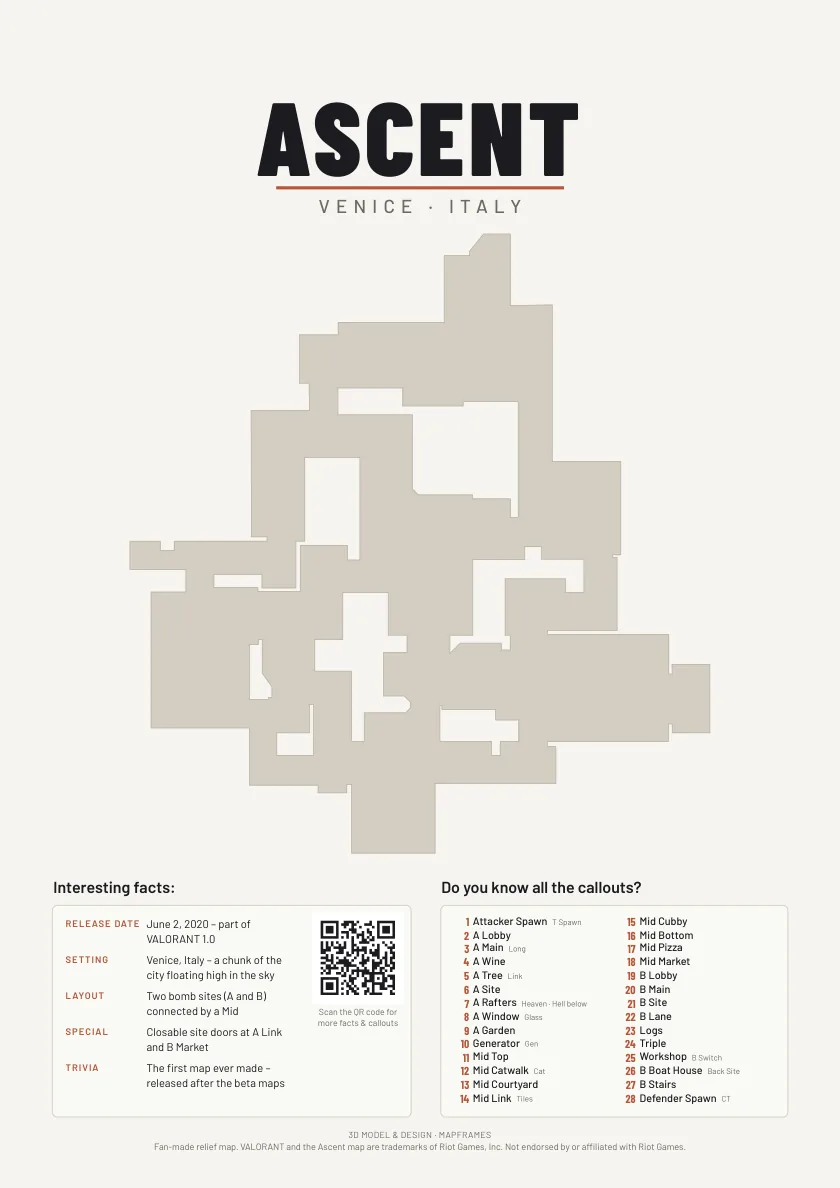
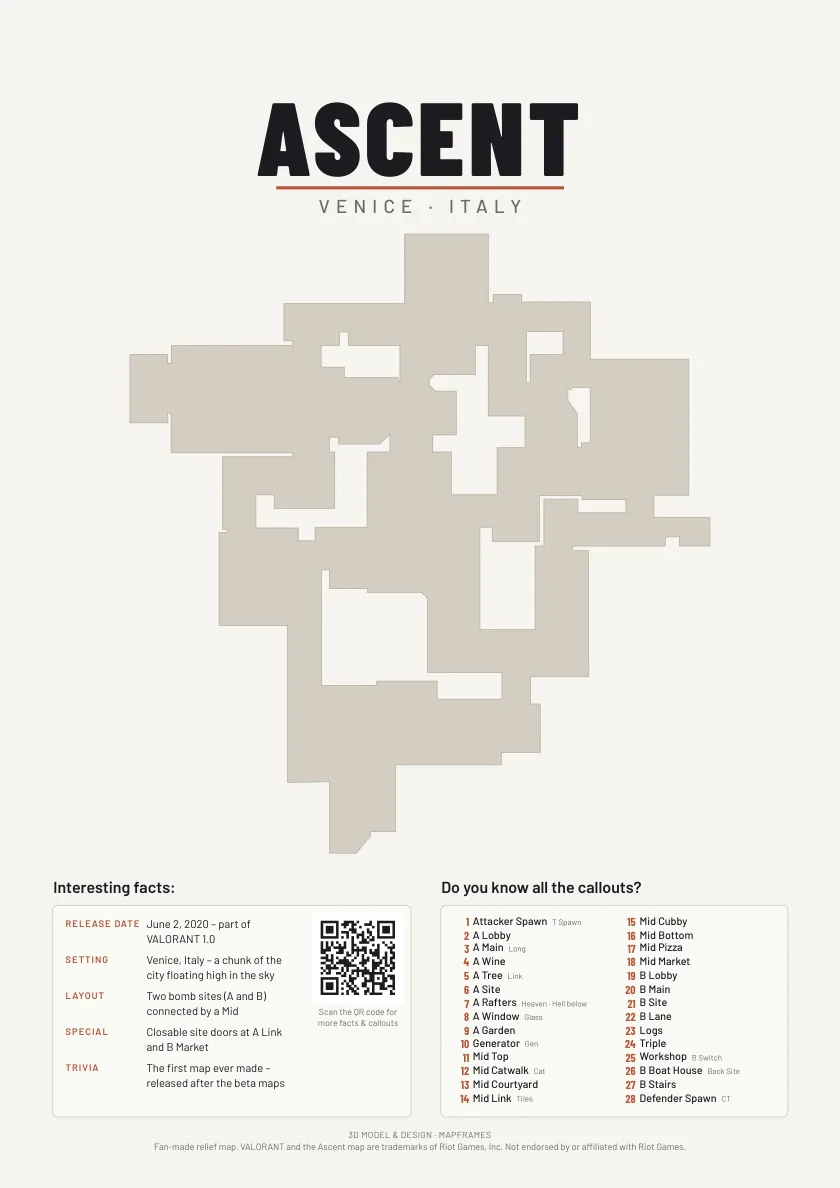
Abyss and Ascent: rotate 180° so attackers are at the bottom (relief, poster, callouts, labels)
Claude-Session: https://claude.ai/code/session_01FzT4sPnAGurHRYYzMdNgB6

Changed region(s): [[0.1548, 0.1869, 0.8667, 0.7163]]

diff --git a/ascent/index.html b/ascent/index.html
@@ -20,7 +20,7 @@
 <section class="board wrap" id="board" aria-label="Callouts">
   <figure class="sheet">
     <div class="map" id="map" style="--ar:1480/1580;--r:0.9367"><svg class="grid" aria-hidden="true" viewBox="-120.0 -120.0 388.0 398.0" preserveAspectRatio="none" style="left:-81.081%;top:-75.949%;width:262.162%;height:251.899%"><defs><pattern id="g5" width="5" height="5" patternUnits="userSpaceOnUse" x="4.00" y="9.00"><path d="M5 0H0V5" class="g-minor"/></pattern><pattern id="g10" width="10" height="10" patternUnits="userSpaceOnUse" x="4.00" y="9.00"><rect width="10" height="10" fill="url(#g5)"/><path d="M10 0H0V10" class="g-major"/></pattern></defs><rect x="-120.0" y="-120.0" width="388.0" height="398.0" fill="url(#g10)"/></svg><img src="../assets/ascent-relief.webp" width="1480" height="1580" alt="Top view of the Ascent relief"><div class="tip" id="tip" aria-hidden="true"></div></div>
-    <span class="side top" aria-hidden="true">Attacker side</span><span class="side bot" aria-hidden="true">Defender side</span><figcaption class="key"><span><i></i>Numbered as on your poster</span><span><i class="x"></i>Extra callout, not on the poster</span><span class="scale"><b id="bar" data-mm="11.64" data-wmm="148.0"></b>10 m in the game</span><span class="orient">Attackers start at the top, A site on the left, B site on the right. One grid square is 1 cm on your relief.</span></figcaption>
+    <span class="side top" aria-hidden="true">Defender side</span><span class="side bot" aria-hidden="true">Attacker side</span><figcaption class="key"><span><i></i>Numbered as on your poster</span><span><i class="x"></i>Extra callout, not on the poster</span><span class="scale"><b id="bar" data-mm="11.64" data-wmm="148.0"></b>10 m in the game</span><span class="orient">Attackers start at the bottom, A site on the right, B site on the left. One grid square is 1 cm on your relief.</span></figcaption>
   </figure>
   <div class="panel">
     <div class="modes" role="tablist" aria-label="Mode"><button role="tab" data-mode="explore" aria-selected="true">Explore</button><button role="tab" data-mode="quiz" aria-selected="false">Test yourself</button></div>
@@ -48,7 +48,7 @@
 <section class="more wrap"><h2>All VALORANT maps</h2><div class="tiles"><a class="tile" href="../abyss/"><span class="im"><img src="../assets/abyss-thumb.webp" alt="" loading="lazy"></span><b>Abyss</b><span>Jan Mayen, Norway</span><span>23 callouts</span></a><a class="tile" href="./" aria-current="page"><span class="im"><img src="../assets/ascent-thumb.webp" alt="" loading="lazy"></span><b>Ascent</b><span>Venice, Italy</span><span>68 callouts</span></a><a class="tile" href="../bind/"><span class="im"><img src="../assets/bind-thumb.webp" alt="" loading="lazy"></span><b>Bind</b><span>Rabat, Morocco</span><span>28 callouts</span></a><a class="tile" href="../breeze/"><span class="im"><img src="../assets/breeze-thumb.webp" alt="" loading="lazy"></span><b>Breeze</b><span>Bermuda Triangle, Atlantic</span><span>23 callouts</span></a><a class="tile" href="../fracture/"><span class="im"><img src="../assets/fracture-thumb.webp" alt="" loading="lazy"></span><b>Fracture</b><span>New Mexico, USA</span><span>22 callouts</span></a><a class="tile" href="../haven/"><span class="im"><img src="../assets/haven-thumb.webp" alt="" loading="lazy"></span><b>Haven</b><span>Thimphu, Bhutan</span><span>29 callouts</span></a><a class="tile" href="../icebox/"><span class="im"><img src="../assets/icebox-thumb.webp" alt="" loading="lazy"></span><b>Icebox</b><span>Bennett Island, Russia</span><span>25 callouts</span></a><a class="tile" href="../lotus/"><span class="im"><img src="../assets/lotus-thumb.webp" alt="" loading="lazy"></span><b>Lotus</b><span>Western Ghats, India</span><span>28 callouts</span></a><a class="tile" href="../pearl/"><span class="im"><img src="../assets/pearl-thumb.webp" alt="" loading="lazy"></span><b>Pearl</b><span>Lisbon, Portugal</span><span>26 callouts</span></a><a class="tile" href="../split/"><span class="im"><img src="../assets/split-thumb.webp" alt="" loading="lazy"></span><b>Split</b><span>Tokyo, Japan</span><span>24 callouts</span></a><a class="tile" href="../sunset/"><span class="im"><img src="../assets/sunset-thumb.webp" alt="" loading="lazy"></span><b>Sunset</b><span>Los Angeles, USA</span><span>17 callouts</span></a></div></section>
 </main>
 <footer><div class="wrap"><span>Mapframes, 3D-printed relief maps. <a href="../frame/">What is in the frame</a></span><span>Fan-made project. VALORANT and all related names are trademarks of Riot Games, Inc. Not endorsed by or affiliated with Riot Games.</span></div></footer>
-<script type="application/json" id="data">{"slug": "ascent", "name": "Ascent", "groups": {"A": "A side", "Mid": "Mid", "B": "B side", "Spawns": "Spawns & connectors"}, "callouts": [{"n": "A Lobby", "a": "", "d": "Attackers' entrance hall in front of A.", "note": "", "g": "A", "p": 2, "x": 25.14, "y": 39.3, "o": 1, "img": "a-lobby", "px": [0.5, 0.5658]}, {"n": "A Main", "a": "A Long", "d": "The main route onto A. \"Long\" comes from Counter-Strike.", "note": "", "g": "A", "p": 3, "x": 18.58, "y": 51.84, "o": 1, "img": "a-main", "px": [0.5, 0.5822]}, {"n": "A Wine", "a": "Wine", "d": "A little wine shop – barrels, bottles and tables are right there.", "note": "", "g": "A", "p": 4, "x": 2.57, "y": 51.65, "o": 1, "img": "a-wine", "px": [0.5, 0.58]}, {"n": "A Tree", "a": "Tree, Tree Room, A Link", "d": "A small room with a tree growing in the middle. Also called A Link.", "note": "", "g": "A", "p": 5, "x": 29.19, "y": 60.89, "o": 1, "img": "a-tree", "px": [0.5, 0.5822]}, {"n": "A Site", "a": "", "d": "Bomb site A.", "note": "", "g": "A", "p": 6, "x": 12.09, "y": 65.95, "o": 1, "img": "a-site", "px": [0.5, 0.5822]}, {"n": "A Window", "a": "Glass", "d": "The big breakable window next to A site.", "note": "", "g": "A", "p": 8, "x": 28.85, "y": 77.41, "o": 1, "img": "a-window", "px": [0.5, 0.5822]}, {"n": "A Garden", "a": "Gardens", "d": "A garden with flower pots and a pergola.", "note": "", "g": "A", "p": 9, "x": 30.81, "y": 72.72, "o": 1, "img": "a-garden", "px": [0.5, 0.5659]}, {"n": "A Rafters", "a": "Heaven", "d": "The raised spot above the site – \"Heaven\", a name borrowed from CS. Rafters are roof beams.", "note": "", "g": "A", "p": 7, "x": 12.23, "y": 77.59, "o": 1, "img": "a-rafters", "px": [0.5, 0.5822]}, {"n": "Hell", "a": "Under Heaven", "d": "The space right under Heaven – \"Hell\" below \"Heaven\", also from CS.", "note": "Hidden under Heaven on the relief – look below the upper floor.", "g": "A", "p": 0, "x": 12.23, "y": 77.59, "o": 0, "img": "hell", "px": [0.5, 0.5822]}, {"n": "Generator", "a": "Gen, Genny", "d": "The big generator standing on A site.", "note": "", "g": "A", "p": 10, "x": 17.16, "y": 69.37, "o": 0, "img": "generator", "px": [0.5, 0.5658]}, {"n": "A Default", "a": "Default", "d": "The standard spike plant spot next to Generator.", "note": "", "g": "A", "p": 0, "x": 15.2, "y": 67.72, "o": 0, "img": "a-default", "px": [0.5, 0.5822]}, {"n": "Green Box", "a": "Dice", "d": "The green box in the middle of the site, also called Dice.", "note": "", "g": "A", "p": 0, "x": 9.8, "y": 69.49, "o": 0, "img": "green-box", "px": [0.5, 0.5658]}, {"n": "Bricks", "a": "Shroud", "d": "A pile of bricks on the left of A site. \"Shroud\" refers to the Shroud box in CS.", "note": "", "g": "A", "p": 0, "x": 6.15, "y": 59.11, "o": 0, "img": "bricks", "px": [0.5, 0.5657]}, {"n": "Site Pillar", "a": "A Site Pillar, Pillar", "d": "The stone pillar on the edge of A site.", "note": "", "g": "A", "p": 0, "x": 5.2, "y": 66.71, "o": 0, "img": "site-pillar", "px": [0.5, 0.5822]}, {"n": "Tall Box", "a": "", "d": "A tall wooden crate on the edge of the site.", "note": "", "g": "A", "p": 0, "x": 6.76, "y": 74.68, "o": 0, "img": "tall-box", "px": [0.5, 0.5658]}, {"n": "Heaven Pillar", "a": "Tower", "d": "The pillar (tower) next to Heaven.", "note": "", "g": "A", "p": 0, "x": 5.2, "y": 76.39, "o": 0, "img": "heaven-pillar", "px": [0.5, 0.6093]}, {"n": "Heaven Hall", "a": "", "d": "The corridor behind Heaven leading to the defenders.", "note": "", "g": "A", "p": 0, "x": 22.77, "y": 81.96, "o": 0, "img": "heaven-hall", "px": [0.5, 0.5822]}, {"n": "Heaven Ramp", "a": "Heaven Stairs", "d": "The ramp / stairs up to Heaven.", "note": "", "g": "A", "p": 0, "x": 29.26, "y": 87.34, "o": 0, "img": "heaven-ramp", "px": [0.5, 0.5618]}, {"n": "Lights", "a": "", "d": "The area with street lamps next to Garden.", "note": "", "g": "A", "p": 0, "x": 35.88, "y": 79.87, "o": 0, "img": "lights", "px": [0.5, 0.5659]}, {"n": "A Door", "a": "", "d": "The closable door on A – one of Ascent's signature mechanics.", "note": "", "g": "A", "p": 0, "x": 22.3, "y": 61.39, "o": 0, "img": "a-door", "px": [0.5, 0.5658]}, {"n": "A Switch", "a": "Switch, Button", "d": "The button that opens and closes the A door.", "note": "", "g": "A", "p": 0, "x": 21.62, "y": 58.86, "o": 0, "img": "a-switch", "px": [0.5, 0.5658]}, {"n": "A Short", "a": "Short", "d": "The shorter route from Mid over Catwalk to A Link.", "note": "", "g": "A", "p": 0, "x": 38.45, "y": 55.7, "o": 0, "img": "a-short", "px": [0.5, 0.5658]}, {"n": "A Cubby", "a": "", "d": "A small nook next to A Main.", "note": "", "g": "A", "p": 0, "x": 25.07, "y": 55.7, "o": 0, "img": "a-cubby", "px": [0.5, 0.5658]}, {"n": "A Orb", "a": "", "d": "Where the ultimate orb spawns on the A side.", "note": "", "g": "A", "p": 0, "x": 25.07, "y": 50.51, "o": 0, "img": "a-orb", "px": [0.5, 0.5822]}, {"n": "Deli", "a": "Scooter", "d": "A delicatessen – hams and cheeses hang in the window.", "note": "", "g": "A", "p": 0, "x": 22.77, "y": 41.77, "o": 0, "img": "deli", "px": [0.5, 0.5658]}, {"n": "Gelato", "a": "", "d": "An ice cream shop with a \"Gelato\" sign.", "note": "", "g": "A", "p": 0, "x": 24.32, "y": 29.11, "o": 0, "img": "gelato", "px": [0.5, 0.5658]}, {"n": "A Alley", "a": "", "d": "The narrow attacker alley leading toward A.", "note": "", "g": "A", "p": 0, "x": 33.31, "y": 25.63, "o": 0, "img": "a-alley", "px": [0.5, 0.5658]}, {"n": "Bar", "a": "", "d": "A bar with tables, chairs and wine barrels.", "note": "", "g": "A", "p": 0, "x": 41.55, "y": 23.92, "o": 0, "img": "bar", "px": [0.5, 0.5658]}, {"n": "Mid Top", "a": "Top Mid", "d": "The upper part of Mid, on the attacker side.", "note": "", "g": "Mid", "p": 11, "x": 38.78, "y": 32.78, "o": 1, "img": "mid-top", "px": [0.5, 0.5658]}, {"n": "Mid Catwalk", "a": "Catwalk, Cat", "d": "The narrow raised walkway – \"Cat\" for short.", "note": "", "g": "Mid", "p": 12, "x": 42.23, "y": 47.53, "o": 1, "img": "mid-catwalk", "px": [0.5, 0.5658]}, {"n": "Mid Courtyard", "a": "Mid", "d": "The big open courtyard in the centre of the map.", "note": "", "g": "Mid", "p": 13, "x": 50.88, "y": 50.89, "o": 1, "img": "mid-courtyard", "px": [0.5, 0.5657]}, {"n": "Fountain", "a": "", "d": "The fountain in the middle of the courtyard.", "note": "", "g": "Mid", "p": 0, "x": 52.03, "y": 47.47, "o": 0, "img": "fountain", "px": [0.5, 0.5656]}, {"n": "Mid Cubby", "a": "Cubby, Dog", "d": "A small nook on the way to A, also called Dog.", "note": "", "g": "Mid", "p": 15, "x": 33.85, "y": 54.87, "o": 1, "img": "mid-cubby", "px": [0.5, 0.5822]}, {"n": "Mid Link", "a": "Tiles, Mid Connector", "d": "Named \"Tiles\" after the patterned floor tiles.", "note": "", "g": "Mid", "p": 14, "x": 65.47, "y": 48.61, "o": 1, "img": "mid-link", "px": [0.5, 0.5658]}, {"n": "Mid Bottom", "a": "Bottom Mid", "d": "The lower part of Mid, on the defender side.", "note": "", "g": "Mid", "p": 16, "x": 51.69, "y": 60.95, "o": 1, "img": "mid-bottom", "px": [0.5, 0.5821]}, {"n": "Bench", "a": "", "d": "The bench in Mid Bottom.", "note": "", "g": "Mid", "p": 0, "x": 57.3, "y": 59.18, "o": 0, "img": "bench", "px": [0.5, 0.5658]}, {"n": "Arch", "a": "Mid Arch", "d": "The arched gateway by Mid Bottom.", "note": "", "g": "Mid", "p": 0, "x": 53.38, "y": 63.92, "o": 0, "img": "arch", "px": [0.5, 0.5659]}, {"n": "Mid Pizza", "a": "Pizza", "d": "A pizzeria – pizza boxes and slices lie around.", "note": "", "g": "Mid", "p": 17, "x": 46.28, "y": 70.63, "o": 1, "img": "mid-pizza", "px": [0.5, 0.5658]}, {"n": "Mid Market", "a": "Market, B Market", "d": "A market with stalls and crates of fruit.", "note": "", "g": "Mid", "p": 18, "x": 51.89, "y": 71.33, "o": 1, "img": "mid-market", "px": [0.5, 0.6096]}, {"n": "Library", "a": "", "d": "A bookshop full of books.", "note": "", "g": "Mid", "p": 0, "x": 46.22, "y": 40.13, "o": 0, "img": "library", "px": [0.5, 0.5756]}, {"n": "Screens", "a": "", "d": "Screens on the museum wall near Top Mid.", "note": "Painted on a wall – not part of the relief.", "g": "Mid", "p": 0, "x": 39.19, "y": 45.57, "o": 0, "img": "screens", "px": [0.5, 0.6435]}, {"n": "Subroza", "a": "", "d": "A grass patch by the Catwalk stairs, named after the pro player Subroza.", "note": "", "g": "Mid", "p": 0, "x": 41.22, "y": 42.41, "o": 0, "img": "subroza", "px": [0.5, 0.5822]}, {"n": "Attacker Spawn", "a": "T Spawn", "d": "Where attackers start. \"T\" stands for Terrorists in CS.", "note": "", "g": "Spawns", "p": 1, "x": 60.0, "y": 16.71, "o": 1, "img": "attacker-spawn", "px": [0.5, 0.5655]}, {"n": "Church", "a": "", "d": "A small chapel with wooden pews.", "note": "", "g": "B", "p": 0, "x": 62.36, "y": 25.63, "o": 0, "img": "church", "px": [0.5, 0.5658]}, {"n": "B Alley", "a": "", "d": "The attacker alley leading toward B.", "note": "", "g": "B", "p": 0, "x": 70.41, "y": 25.44, "o": 0, "img": "b-alley", "px": [0.5, 0.5822]}, {"n": "Kraken", "a": "", "d": "An octopus graffiti on the wall.", "note": "Painted on a wall – not part of the relief.", "g": "B", "p": 0, "x": 78.24, "y": 35.44, "o": 0, "img": "kraken", "px": [0.5, 0.6085]}, {"n": "B Lobby", "a": "", "d": "Attackers' entrance hall in front of B.", "note": "", "g": "B", "p": 19, "x": 72.23, "y": 27.34, "o": 1, "img": "b-lobby", "px": [0.5, 0.6096]}, {"n": "Ticket Booth", "a": "", "d": "A booth with a ticket window next to B Lobby.", "note": "", "g": "B", "p": 0, "x": 82.43, "y": 44.49, "o": 0, "img": "ticket-booth", "px": [0.5, 0.5589]}, {"n": "Fish Market", "a": "", "d": "A fish market with crates of fish.", "note": "", "g": "B", "p": 0, "x": 75.95, "y": 52.34, "o": 0, "img": "fish-market", "px": [0.5, 0.594]}, {"n": "B Main", "a": "Tunnels", "d": "The main route onto B, also called Tunnels.", "note": "", "g": "B", "p": 20, "x": 76.08, "y": 60.13, "o": 1, "img": "b-main", "px": [0.5, 0.5658]}, {"n": "B Cubby", "a": "", "d": "A small nook in B Main.", "note": "", "g": "B", "p": 0, "x": 71.55, "y": 57.34, "o": 0, "img": "b-cubby", "px": [0.5, 0.5658]}, {"n": "B Orb", "a": "", "d": "Where the ultimate orb spawns on the B side.", "note": "", "g": "B", "p": 0, "x": 81.01, "y": 61.84, "o": 0, "img": "b-orb", "px": [0.5, 0.5658]}, {"n": "B Site", "a": "", "d": "Bomb site B.", "note": "", "g": "B", "p": 21, "x": 78.92, "y": 72.72, "o": 1, "img": "b-site", "px": [0.5, 0.5659]}, {"n": "B Lane", "a": "Lane, Speedway", "d": "The long straight raised walkway beside the site, also called Speedway.", "note": "", "g": "B", "p": 22, "x": 85.61, "y": 65.82, "o": 0, "img": "b-lane", "px": [0.5, 0.5823]}, {"n": "Triple", "a": "Triple Box, B Default", "d": "A stack of three crates – the default plant spot on B.", "note": "", "g": "B", "p": 24, "x": 86.62, "y": 73.16, "o": 0, "img": "triple", "px": [0.5, 0.5658]}, {"n": "Double", "a": "Double Box", "d": "A stack of two crates.", "note": "", "g": "B", "p": 0, "x": 83.85, "y": 80.44, "o": 0, "img": "double", "px": [0.5, 0.5658]}, {"n": "Wallbang", "a": "", "d": "The corner players like to shoot through the wall.", "note": "", "g": "B", "p": 0, "x": 79.66, "y": 71.39, "o": 0, "img": "wallbang", "px": [0.5, 0.5659]}, {"n": "Workshop", "a": "Toolshed, Shed, B Switch, Button", "d": "A tool shed with saws and drills – and the button for the B door.", "note": "", "g": "B", "p": 25, "x": 75.95, "y": 72.66, "o": 0, "img": "workshop", "px": [0.5, 0.5657]}, {"n": "B Boat House", "a": "Boathouse, Back Site, Back", "d": "A boathouse with boats, oars and a small pier.", "note": "", "g": "B", "p": 26, "x": 95.74, "y": 74.3, "o": 1, "img": "b-boat-house", "px": [0.5, 0.5658]}, {"n": "Boat", "a": "", "d": "The little rowboat next to Logs.", "note": "", "g": "B", "p": 0, "x": 67.36, "y": 65.95, "o": 0, "img": "boat", "px": [0.5, 0.5658]}, {"n": "Logs", "a": "", "d": "A pile of logs in the corner below the Market platform.", "note": "", "g": "B", "p": 23, "x": 65.61, "y": 68.54, "o": 0, "img": "logs", "px": [0.5, 0.5658]}, {"n": "Plateau", "a": "B Plat", "d": "The raised platform by the Market door.", "note": "", "g": "B", "p": 0, "x": 66.55, "y": 72.66, "o": 0, "img": "plateau", "px": [0.5, 0.6096]}, {"n": "B Stairs", "a": "Stairs", "d": "The stairs from B site up toward the defenders.", "note": "", "g": "B", "p": 27, "x": 77.36, "y": 79.75, "o": 0, "img": "b-stairs", "px": [0.5, 0.5658]}, {"n": "B Door", "a": "Market Door", "d": "The closable door between Market and B.", "note": "", "g": "B", "p": 0, "x": 63.51, "y": 72.78, "o": 0}, {"n": "D Connector", "a": "CT Conn, Connector", "d": "Connector from defender spawn. \"D\" = defender, \"CT\" comes from CS.", "note": "", "g": "Spawns", "p": 0, "x": 51.28, "y": 72.47, "o": 0, "img": "d-connector", "px": [0.5, 0.5822]}, {"n": "D Plat", "a": "CT Plat", "d": "The platform next to defender spawn.", "note": "", "g": "Spawns", "p": 0, "x": 58.65, "y": 82.66, "o": 0, "img": "d-plat", "px": [0.5, 0.5658]}, {"n": "D Hall", "a": "CT Hall", "d": "The hallway from defender spawn toward B.", "note": "", "g": "Spawns", "p": 0, "x": 66.49, "y": 86.52, "o": 0, "img": "d-hall", "px": [0.5, 0.5658]}, {"n": "Defender Spawn", "a": "CT Spawn, CT", "d": "Where defenders start. \"CT\" stands for Counter-Terrorists in CS.", "note": "", "g": "Spawns", "p": 28, "x": 44.8, "y": 88.92, "o": 1, "img": "defender-spawn", "px": [0.5, 0.5657]}]}</script>
+<script type="application/json" id="data">{"slug": "ascent", "name": "Ascent", "groups": {"A": "A side", "Mid": "Mid", "B": "B side", "Spawns": "Spawns & connectors"}, "callouts": [{"n": "A Lobby", "a": "", "d": "Attackers' entrance hall in front of A.", "note": "", "g": "A", "p": 2, "x": 74.86, "y": 60.7, "o": 1, "img": "a-lobby", "px": [0.5, 0.5658]}, {"n": "A Main", "a": "A Long", "d": "The main route onto A. \"Long\" comes from Counter-Strike.", "note": "", "g": "A", "p": 3, "x": 81.42, "y": 48.16, "o": 1, "img": "a-main", "px": [0.5, 0.5822]}, {"n": "A Wine", "a": "Wine", "d": "A little wine shop – barrels, bottles and tables are right there.", "note": "", "g": "A", "p": 4, "x": 97.43, "y": 48.35, "o": 1, "img": "a-wine", "px": [0.5, 0.58]}, {"n": "A Tree", "a": "Tree, Tree Room, A Link", "d": "A small room with a tree growing in the middle. Also called A Link.", "note": "", "g": "A", "p": 5, "x": 70.81, "y": 39.11, "o": 1, "img": "a-tree", "px": [0.5, 0.5822]}, {"n": "A Site", "a": "", "d": "Bomb site A.", "note": "", "g": "A", "p": 6, "x": 87.91, "y": 34.05, "o": 1, "img": "a-site", "px": [0.5, 0.5822]}, {"n": "A Window", "a": "Glass", "d": "The big breakable window next to A site.", "note": "", "g": "A", "p": 8, "x": 71.15, "y": 22.59, "o": 1, "img": "a-window", "px": [0.5, 0.5822]}, {"n": "A Garden", "a": "Gardens", "d": "A garden with flower pots and a pergola.", "note": "", "g": "A", "p": 9, "x": 69.19, "y": 27.28, "o": 1, "img": "a-garden", "px": [0.5, 0.5659]}, {"n": "A Rafters", "a": "Heaven", "d": "The raised spot above the site – \"Heaven\", a name borrowed from CS. Rafters are roof beams.", "note": "", "g": "A", "p": 7, "x": 87.77, "y": 22.41, "o": 1, "img": "a-rafters", "px": [0.5, 0.5822]}, {"n": "Hell", "a": "Under Heaven", "d": "The space right under Heaven – \"Hell\" below \"Heaven\", also from CS.", "note": "Hidden under Heaven on the relief – look below the upper floor.", "g": "A", "p": 0, "x": 87.77, "y": 22.41, "o": 0, "img": "hell", "px": [0.5, 0.5822]}, {"n": "Generator", "a": "Gen, Genny", "d": "The big generator standing on A site.", "note": "", "g": "A", "p": 10, "x": 82.84, "y": 30.63, "o": 0, "img": "generator", "px": [0.5, 0.5658]}, {"n": "A Default", "a": "Default", "d": "The standard spike plant spot next to Generator.", "note": "", "g": "A", "p": 0, "x": 84.8, "y": 32.28, "o": 0, "img": "a-default", "px": [0.5, 0.5822]}, {"n": "Green Box", "a": "Dice", "d": "The green box in the middle of the site, also called Dice.", "note": "", "g": "A", "p": 0, "x": 90.2, "y": 30.51, "o": 0, "img": "green-box", "px": [0.5, 0.5658]}, {"n": "Bricks", "a": "Shroud", "d": "A pile of bricks on the left of A site. \"Shroud\" refers to the Shroud box in CS.", "note": "", "g": "A", "p": 0, "x": 93.85, "y": 40.89, "o": 0, "img": "bricks", "px": [0.5, 0.5657]}, {"n": "Site Pillar", "a": "A Site Pillar, Pillar", "d": "The stone pillar on the edge of A site.", "note": "", "g": "A", "p": 0, "x": 94.8, "y": 33.29, "o": 0, "img": "site-pillar", "px": [0.5, 0.5822]}, {"n": "Tall Box", "a": "", "d": "A tall wooden crate on the edge of the site.", "note": "", "g": "A", "p": 0, "x": 93.24, "y": 25.32, "o": 0, "img": "tall-box", "px": [0.5, 0.5658]}, {"n": "Heaven Pillar", "a": "Tower", "d": "The pillar (tower) next to Heaven.", "note": "", "g": "A", "p": 0, "x": 94.8, "y": 23.61, "o": 0, "img": "heaven-pillar", "px": [0.5, 0.6093]}, {"n": "Heaven Hall", "a": "", "d": "The corridor behind Heaven leading to the defenders.", "note": "", "g": "A", "p": 0, "x": 77.23, "y": 18.04, "o": 0, "img": "heaven-hall", "px": [0.5, 0.5822]}, {"n": "Heaven Ramp", "a": "Heaven Stairs", "d": "The ramp / stairs up to Heaven.", "note": "", "g": "A", "p": 0, "x": 70.74, "y": 12.66, "o": 0, "img": "heaven-ramp", "px": [0.5, 0.5618]}, {"n": "Lights", "a": "", "d": "The area with street lamps next to Garden.", "note": "", "g": "A", "p": 0, "x": 64.12, "y": 20.13, "o": 0, "img": "lights", "px": [0.5, 0.5659]}, {"n": "A Door", "a": "", "d": "The closable door on A – one of Ascent's signature mechanics.", "note": "", "g": "A", "p": 0, "x": 77.7, "y": 38.61, "o": 0, "img": "a-door", "px": [0.5, 0.5658]}, {"n": "A Switch", "a": "Switch, Button", "d": "The button that opens and closes the A door.", "note": "", "g": "A", "p": 0, "x": 78.38, "y": 41.14, "o": 0, "img": "a-switch", "px": [0.5, 0.5658]}, {"n": "A Short", "a": "Short", "d": "The shorter route from Mid over Catwalk to A Link.", "note": "", "g": "A", "p": 0, "x": 61.55, "y": 44.3, "o": 0, "img": "a-short", "px": [0.5, 0.5658]}, {"n": "A Cubby", "a": "", "d": "A small nook next to A Main.", "note": "", "g": "A", "p": 0, "x": 74.93, "y": 44.3, "o": 0, "img": "a-cubby", "px": [0.5, 0.5658]}, {"n": "A Orb", "a": "", "d": "Where the ultimate orb spawns on the A side.", "note": "", "g": "A", "p": 0, "x": 74.93, "y": 49.49, "o": 0, "img": "a-orb", "px": [0.5, 0.5822]}, {"n": "Deli", "a": "Scooter", "d": "A delicatessen – hams and cheeses hang in the window.", "note": "", "g": "A", "p": 0, "x": 77.23, "y": 58.23, "o": 0, "img": "deli", "px": [0.5, 0.5658]}, {"n": "Gelato", "a": "", "d": "An ice cream shop with a \"Gelato\" sign.", "note": "", "g": "A", "p": 0, "x": 75.68, "y": 70.89, "o": 0, "img": "gelato", "px": [0.5, 0.5658]}, {"n": "A Alley", "a": "", "d": "The narrow attacker alley leading toward A.", "note": "", "g": "A", "p": 0, "x": 66.69, "y": 74.37, "o": 0, "img": "a-alley", "px": [0.5, 0.5658]}, {"n": "Bar", "a": "", "d": "A bar with tables, chairs and wine barrels.", "note": "", "g": "A", "p": 0, "x": 58.45, "y": 76.08, "o": 0, "img": "bar", "px": [0.5, 0.5658]}, {"n": "Mid Top", "a": "Top Mid", "d": "The upper part of Mid, on the attacker side.", "note": "", "g": "Mid", "p": 11, "x": 61.22, "y": 67.22, "o": 1, "img": "mid-top", "px": [0.5, 0.5658]}, {"n": "Mid Catwalk", "a": "Catwalk, Cat", "d": "The narrow raised walkway – \"Cat\" for short.", "note": "", "g": "Mid", "p": 12, "x": 57.77, "y": 52.47, "o": 1, "img": "mid-catwalk", "px": [0.5, 0.5658]}, {"n": "Mid Courtyard", "a": "Mid", "d": "The big open courtyard in the centre of the map.", "note": "", "g": "Mid", "p": 13, "x": 49.12, "y": 49.11, "o": 1, "img": "mid-courtyard", "px": [0.5, 0.5657]}, {"n": "Fountain", "a": "", "d": "The fountain in the middle of the courtyard.", "note": "", "g": "Mid", "p": 0, "x": 47.97, "y": 52.53, "o": 0, "img": "fountain", "px": [0.5, 0.5656]}, {"n": "Mid Cubby", "a": "Cubby, Dog", "d": "A small nook on the way to A, also called Dog.", "note": "", "g": "Mid", "p": 15, "x": 66.15, "y": 45.13, "o": 1, "img": "mid-cubby", "px": [0.5, 0.5822]}, {"n": "Mid Link", "a": "Tiles, Mid Connector", "d": "Named \"Tiles\" after the patterned floor tiles.", "note": "", "g": "Mid", "p": 14, "x": 34.53, "y": 51.39, "o": 1, "img": "mid-link", "px": [0.5, 0.5658]}, {"n": "Mid Bottom", "a": "Bottom Mid", "d": "The lower part of Mid, on the defender side.", "note": "", "g": "Mid", "p": 16, "x": 48.31, "y": 39.05, "o": 1, "img": "mid-bottom", "px": [0.5, 0.5821]}, {"n": "Bench", "a": "", "d": "The bench in Mid Bottom.", "note": "", "g": "Mid", "p": 0, "x": 42.7, "y": 40.82, "o": 0, "img": "bench", "px": [0.5, 0.5658]}, {"n": "Arch", "a": "Mid Arch", "d": "The arched gateway by Mid Bottom.", "note": "", "g": "Mid", "p": 0, "x": 46.62, "y": 36.08, "o": 0, "img": "arch", "px": [0.5, 0.5659]}, {"n": "Mid Pizza", "a": "Pizza", "d": "A pizzeria – pizza boxes and slices lie around.", "note": "", "g": "Mid", "p": 17, "x": 53.72, "y": 29.37, "o": 1, "img": "mid-pizza", "px": [0.5, 0.5658]}, {"n": "Mid Market", "a": "Market, B Market", "d": "A market with stalls and crates of fruit.", "note": "", "g": "Mid", "p": 18, "x": 48.11, "y": 28.67, "o": 1, "img": "mid-market", "px": [0.5, 0.6096]}, {"n": "Library", "a": "", "d": "A bookshop full of books.", "note": "", "g": "Mid", "p": 0, "x": 53.78, "y": 59.87, "o": 0, "img": "library", "px": [0.5, 0.5756]}, {"n": "Screens", "a": "", "d": "Screens on the museum wall near Top Mid.", "note": "Painted on a wall – not part of the relief.", "g": "Mid", "p": 0, "x": 60.81, "y": 54.43, "o": 0, "img": "screens", "px": [0.5, 0.6435]}, {"n": "Subroza", "a": "", "d": "A grass patch by the Catwalk stairs, named after the pro player Subroza.", "note": "", "g": "Mid", "p": 0, "x": 58.78, "y": 57.59, "o": 0, "img": "subroza", "px": [0.5, 0.5822]}, {"n": "Attacker Spawn", "a": "T Spawn", "d": "Where attackers start. \"T\" stands for Terrorists in CS.", "note": "", "g": "Spawns", "p": 1, "x": 40.0, "y": 83.29, "o": 1, "img": "attacker-spawn", "px": [0.5, 0.5655]}, {"n": "Church", "a": "", "d": "A small chapel with wooden pews.", "note": "", "g": "B", "p": 0, "x": 37.64, "y": 74.37, "o": 0, "img": "church", "px": [0.5, 0.5658]}, {"n": "B Alley", "a": "", "d": "The attacker alley leading toward B.", "note": "", "g": "B", "p": 0, "x": 29.59, "y": 74.56, "o": 0, "img": "b-alley", "px": [0.5, 0.5822]}, {"n": "Kraken", "a": "", "d": "An octopus graffiti on the wall.", "note": "Painted on a wall – not part of the relief.", "g": "B", "p": 0, "x": 21.76, "y": 64.56, "o": 0, "img": "kraken", "px": [0.5, 0.6085]}, {"n": "B Lobby", "a": "", "d": "Attackers' entrance hall in front of B.", "note": "", "g": "B", "p": 19, "x": 27.77, "y": 72.66, "o": 1, "img": "b-lobby", "px": [0.5, 0.6096]}, {"n": "Ticket Booth", "a": "", "d": "A booth with a ticket window next to B Lobby.", "note": "", "g": "B", "p": 0, "x": 17.57, "y": 55.51, "o": 0, "img": "ticket-booth", "px": [0.5, 0.5589]}, {"n": "Fish Market", "a": "", "d": "A fish market with crates of fish.", "note": "", "g": "B", "p": 0, "x": 24.05, "y": 47.66, "o": 0, "img": "fish-market", "px": [0.5, 0.594]}, {"n": "B Main", "a": "Tunnels", "d": "The main route onto B, also called Tunnels.", "note": "", "g": "B", "p": 20, "x": 23.92, "y": 39.87, "o": 1, "img": "b-main", "px": [0.5, 0.5658]}, {"n": "B Cubby", "a": "", "d": "A small nook in B Main.", "note": "", "g": "B", "p": 0, "x": 28.45, "y": 42.66, "o": 0, "img": "b-cubby", "px": [0.5, 0.5658]}, {"n": "B Orb", "a": "", "d": "Where the ultimate orb spawns on the B side.", "note": "", "g": "B", "p": 0, "x": 18.99, "y": 38.16, "o": 0, "img": "b-orb", "px": [0.5, 0.5658]}, {"n": "B Site", "a": "", "d": "Bomb site B.", "note": "", "g": "B", "p": 21, "x": 21.08, "y": 27.28, "o": 1, "img": "b-site", "px": [0.5, 0.5659]}, {"n": "B Lane", "a": "Lane, Speedway", "d": "The long straight raised walkway beside the site, also called Speedway.", "note": "", "g": "B", "p": 22, "x": 14.39, "y": 34.18, "o": 0, "img": "b-lane", "px": [0.5, 0.5823]}, {"n": "Triple", "a": "Triple Box, B Default", "d": "A stack of three crates – the default plant spot on B.", "note": "", "g": "B", "p": 24, "x": 13.38, "y": 26.84, "o": 0, "img": "triple", "px": [0.5, 0.5658]}, {"n": "Double", "a": "Double Box", "d": "A stack of two crates.", "note": "", "g": "B", "p": 0, "x": 16.15, "y": 19.56, "o": 0, "img": "double", "px": [0.5, 0.5658]}, {"n": "Wallbang", "a": "", "d": "The corner players like to shoot through the wall.", "note": "", "g": "B", "p": 0, "x": 20.34, "y": 28.61, "o": 0, "img": "wallbang", "px": [0.5, 0.5659]}, {"n": "Workshop", "a": "Toolshed, Shed, B Switch, Button", "d": "A tool shed with saws and drills – and the button for the B door.", "note": "", "g": "B", "p": 25, "x": 24.05, "y": 27.34, "o": 0, "img": "workshop", "px": [0.5, 0.5657]}, {"n": "B Boat House", "a": "Boathouse, Back Site, Back", "d": "A boathouse with boats, oars and a small pier.", "note": "", "g": "B", "p": 26, "x": 4.26, "y": 25.7, "o": 1, "img": "b-boat-house", "px": [0.5, 0.5658]}, {"n": "Boat", "a": "", "d": "The little rowboat next to Logs.", "note": "", "g": "B", "p": 0, "x": 32.64, "y": 34.05, "o": 0, "img": "boat", "px": [0.5, 0.5658]}, {"n": "Logs", "a": "", "d": "A pile of logs in the corner below the Market platform.", "note": "", "g": "B", "p": 23, "x": 34.39, "y": 31.46, "o": 0, "img": "logs", "px": [0.5, 0.5658]}, {"n": "Plateau", "a": "B Plat", "d": "The raised platform by the Market door.", "note": "", "g": "B", "p": 0, "x": 33.45, "y": 27.34, "o": 0, "img": "plateau", "px": [0.5, 0.6096]}, {"n": "B Stairs", "a": "Stairs", "d": "The stairs from B site up toward the defenders.", "note": "", "g": "B", "p": 27, "x": 22.64, "y": 20.25, "o": 0, "img": "b-stairs", "px": [0.5, 0.5658]}, {"n": "B Door", "a": "Market Door", "d": "The closable door between Market and B.", "note": "", "g": "B", "p": 0, "x": 36.49, "y": 27.22, "o": 0}, {"n": "D Connector", "a": "CT Conn, Connector", "d": "Connector from defender spawn. \"D\" = defender, \"CT\" comes from CS.", "note": "", "g": "Spawns", "p": 0, "x": 48.72, "y": 27.53, "o": 0, "img": "d-connector", "px": [0.5, 0.5822]}, {"n": "D Plat", "a": "CT Plat", "d": "The platform next to defender spawn.", "note": "", "g": "Spawns", "p": 0, "x": 41.35, "y": 17.34, "o": 0, "img": "d-plat", "px": [0.5, 0.5658]}, {"n": "D Hall", "a": "CT Hall", "d": "The hallway from defender spawn toward B.", "note": "", "g": "Spawns", "p": 0, "x": 33.51, "y": 13.48, "o": 0, "img": "d-hall", "px": [0.5, 0.5658]}, {"n": "Defender Spawn", "a": "CT Spawn, CT", "d": "Where defenders start. \"CT\" stands for Counter-Terrorists in CS.", "note": "", "g": "Spawns", "p": 28, "x": 55.2, "y": 11.08, "o": 1, "img": "defender-spawn", "px": [0.5, 0.5657]}]}</script>
 <script src="../assets/map.js"></script>
 </body>
 </html>

diff --git a/abyss/index.html b/abyss/index.html
@@ -20,7 +20,7 @@
 <section class="board wrap" id="board" aria-label="Callouts">
   <figure class="sheet">
     <div class="map" id="map" style="--ar:1441/1396;--r:1.0322"><svg class="grid" aria-hidden="true" viewBox="-120.0 -120.0 384.1 379.6" preserveAspectRatio="none" style="left:-83.276%;top:-85.960%;width:266.551%;height:271.920%"><defs><pattern id="g5" width="5" height="5" patternUnits="userSpaceOnUse" x="2.05" y="9.80"><path d="M5 0H0V5" class="g-minor"/></pattern><pattern id="g10" width="10" height="10" patternUnits="userSpaceOnUse" x="2.05" y="9.80"><rect width="10" height="10" fill="url(#g5)"/><path d="M10 0H0V10" class="g-major"/></pattern></defs><rect x="-120.0" y="-120.0" width="384.1" height="379.6" fill="url(#g10)"/></svg><img src="../assets/abyss-relief.webp" width="1441" height="1396" alt="Top view of the Abyss relief"><div class="tip" id="tip" aria-hidden="true"></div></div>
-    <span class="side top" aria-hidden="true">Attacker side</span><span class="side bot" aria-hidden="true">Defender side</span><figcaption class="key"><span><i></i>Numbered as on your poster</span><span class="scale"><b id="bar" data-mm="11.64" data-wmm="144.1"></b>10 m in the game</span><span class="orient">Attackers start at the top, A site on the left, B site on the right. One grid square is 1 cm on your relief.</span></figcaption>
+    <span class="side top" aria-hidden="true">Defender side</span><span class="side bot" aria-hidden="true">Attacker side</span><figcaption class="key"><span><i></i>Numbered as on your poster</span><span class="scale"><b id="bar" data-mm="11.64" data-wmm="144.1"></b>10 m in the game</span><span class="orient">Attackers start at the bottom, A site on the right, B site on the left. One grid square is 1 cm on your relief.</span></figcaption>
   </figure>
   <div class="panel">
     <div class="modes" role="tablist" aria-label="Mode"><button role="tab" data-mode="explore" aria-selected="true">Explore</button><button role="tab" data-mode="quiz" aria-selected="false">Test yourself</button></div>
@@ -48,7 +48,7 @@
 <section class="more wrap"><h2>All VALORANT maps</h2><div class="tiles"><a class="tile" href="./" aria-current="page"><span class="im"><img src="../assets/abyss-thumb.webp" alt="" loading="lazy"></span><b>Abyss</b><span>Jan Mayen, Norway</span><span>23 callouts</span></a><a class="tile" href="../ascent/"><span class="im"><img src="../assets/ascent-thumb.webp" alt="" loading="lazy"></span><b>Ascent</b><span>Venice, Italy</span><span>68 callouts</span></a><a class="tile" href="../bind/"><span class="im"><img src="../assets/bind-thumb.webp" alt="" loading="lazy"></span><b>Bind</b><span>Rabat, Morocco</span><span>28 callouts</span></a><a class="tile" href="../breeze/"><span class="im"><img src="../assets/breeze-thumb.webp" alt="" loading="lazy"></span><b>Breeze</b><span>Bermuda Triangle, Atlantic</span><span>23 callouts</span></a><a class="tile" href="../fracture/"><span class="im"><img src="../assets/fracture-thumb.webp" alt="" loading="lazy"></span><b>Fracture</b><span>New Mexico, USA</span><span>22 callouts</span></a><a class="tile" href="../haven/"><span class="im"><img src="../assets/haven-thumb.webp" alt="" loading="lazy"></span><b>Haven</b><span>Thimphu, Bhutan</span><span>29 callouts</span></a><a class="tile" href="../icebox/"><span class="im"><img src="../assets/icebox-thumb.webp" alt="" loading="lazy"></span><b>Icebox</b><span>Bennett Island, Russia</span><span>25 callouts</span></a><a class="tile" href="../lotus/"><span class="im"><img src="../assets/lotus-thumb.webp" alt="" loading="lazy"></span><b>Lotus</b><span>Western Ghats, India</span><span>28 callouts</span></a><a class="tile" href="../pearl/"><span class="im"><img src="../assets/pearl-thumb.webp" alt="" loading="lazy"></span><b>Pearl</b><span>Lisbon, Portugal</span><span>26 callouts</span></a><a class="tile" href="../split/"><span class="im"><img src="../assets/split-thumb.webp" alt="" loading="lazy"></span><b>Split</b><span>Tokyo, Japan</span><span>24 callouts</span></a><a class="tile" href="../sunset/"><span class="im"><img src="../assets/sunset-thumb.webp" alt="" loading="lazy"></span><b>Sunset</b><span>Los Angeles, USA</span><span>17 callouts</span></a></div></section>
 </main>
 <footer><div class="wrap"><span>Mapframes, 3D-printed relief maps. <a href="../frame/">What is in the frame</a></span><span>Fan-made project. VALORANT and all related names are trademarks of Riot Games, Inc. Not endorsed by or affiliated with Riot Games.</span></div></footer>
-<script type="application/json" id="data">{"slug": "abyss", "name": "Abyss", "groups": {"A": "A side", "Mid": "Mid", "B": "B side", "Spawns": "Spawns"}, "callouts": [{"n": "Attacker Spawn", "a": "T Spawn", "d": "Where attackers start. \"T\" stands for Terrorists in CS.", "note": "", "g": "Spawns", "p": 1, "x": 42.22, "y": 8.68, "o": 1, "img": "attacker-spawn", "px": [0.5, 0.5822]}, {"n": "A Lobby", "a": "", "d": "Attackers' staging area in front of A Main.", "note": "", "g": "A", "p": 2, "x": 23.55, "y": 21.69, "o": 1, "img": "a-lobby", "px": [0.5, 0.5658]}, {"n": "A Main", "a": "", "d": "The main path into A site.", "note": "", "g": "A", "p": 3, "x": 19.2, "y": 36.2, "o": 1, "img": "a-main", "px": [0.5, 0.5822]}, {"n": "A Vent", "a": "", "d": "The vent passage between Mid and A.", "note": "", "g": "A", "p": 4, "x": 36.16, "y": 52.72, "o": 1}, {"n": "A Tower", "a": "", "d": "The raised tower next to A site.", "note": "", "g": "A", "p": 5, "x": 25.37, "y": 51.09, "o": 1, "img": "a-tower", "px": [0.5, 0.6096]}, {"n": "A Site", "a": "", "d": "Bomb site A.", "note": "", "g": "A", "p": 6, "x": 15.07, "y": 51.72, "o": 1, "img": "a-site", "px": [0.5, 0.5822]}, {"n": "A Bridge", "a": "", "d": "The narrow bridge at the edge of A – watch out for the drop.", "note": "", "g": "A", "p": 7, "x": 3.8, "y": 53.1, "o": 1, "img": "a-bridge", "px": [0.5, 0.5658]}, {"n": "A Security", "a": "", "d": "The security room behind A site.", "note": "", "g": "A", "p": 8, "x": 10.22, "y": 74.86, "o": 1, "img": "a-security", "px": [0.5, 0.5822]}, {"n": "A Secret", "a": "", "d": "The hidden path from A to the defender side.", "note": "", "g": "A", "p": 9, "x": 17.38, "y": 78.24, "o": 1, "img": "a-secret", "px": [0.5, 0.5658]}, {"n": "A Link", "a": "", "d": "The passage from A toward defender spawn.", "note": "", "g": "A", "p": 10, "x": 27.19, "y": 70.48, "o": 1, "img": "a-link", "px": [0.5, 0.5822]}, {"n": "Mid Bottom", "a": "", "d": "The attackers' end of Mid.", "note": "", "g": "Mid", "p": 11, "x": 53.13, "y": 45.21, "o": 1, "img": "mid-bottom", "px": [0.5, 0.5822]}, {"n": "Mid Catwalk", "a": "", "d": "The narrow catwalk in Mid.", "note": "", "g": "Mid", "p": 12, "x": 45.01, "y": 45.59, "o": 1, "img": "mid-catwalk", "px": [0.5, 0.5822]}, {"n": "Mid Library", "a": "", "d": "The library in the middle of the map.", "note": "", "g": "Mid", "p": 13, "x": 52.53, "y": 54.97, "o": 1, "img": "mid-library", "px": [0.5, 0.5822]}, {"n": "Mid Bend", "a": "", "d": "The bend between Mid and B.", "note": "", "g": "Mid", "p": 14, "x": 63.55, "y": 40.83, "o": 1, "img": "mid-bend", "px": [0.5, 0.5822]}, {"n": "Mid Top", "a": "", "d": "The defenders' end of Mid.", "note": "", "g": "Mid", "p": 15, "x": 43.55, "y": 69.86, "o": 1, "img": "mid-top", "px": [0.5, 0.5822]}, {"n": "B Lobby", "a": "", "d": "Attackers' staging area in front of B Main.", "note": "", "g": "B", "p": 16, "x": 79.31, "y": 16.43, "o": 1, "img": "b-lobby", "px": [0.5, 0.5822]}, {"n": "B Main", "a": "", "d": "The main path into B site.", "note": "", "g": "B", "p": 17, "x": 85.86, "y": 37.33, "o": 1, "img": "b-main", "px": [0.5, 0.5822]}, {"n": "B Nest", "a": "", "d": "A small raised spot by B Main.", "note": "", "g": "B", "p": 18, "x": 90.1, "y": 32.07, "o": 1, "img": "b-nest", "px": [0.5, 0.6096]}, {"n": "B Danger", "a": "", "d": "The dangerous ledge by B site – one wrong step and you fall.", "note": "", "g": "B", "p": 19, "x": 97.13, "y": 49.21, "o": 1, "img": "b-danger", "px": [0.5, 0.5823]}, {"n": "B Site", "a": "", "d": "Bomb site B.", "note": "", "g": "B", "p": 20, "x": 85.62, "y": 59.85, "o": 1, "img": "b-site", "px": [0.5, 0.6096]}, {"n": "B Tower", "a": "", "d": "The raised tower at the back of B site.", "note": "", "g": "B", "p": 21, "x": 81.62, "y": 70.86, "o": 1, "img": "b-tower", "px": [0.5, 0.6096]}, {"n": "B Link", "a": "", "d": "The passage linking B with Mid and the defenders.", "note": "", "g": "B", "p": 22, "x": 65.98, "y": 69.61, "o": 1, "img": "b-link", "px": [0.5, 0.5822]}, {"n": "Defender Spawn", "a": "CT Spawn, CT", "d": "Where defenders start. \"CT\" stands for Counter-Terrorists in CS.", "note": "", "g": "Spawns", "p": 23, "x": 42.22, "y": 94.01, "o": 1, "img": "defender-spawn", "px": [0.5, 0.5822]}]}</script>
+<script type="application/json" id="data">{"slug": "abyss", "name": "Abyss", "groups": {"A": "A side", "Mid": "Mid", "B": "B side", "Spawns": "Spawns"}, "callouts": [{"n": "Attacker Spawn", "a": "T Spawn", "d": "Where attackers start. \"T\" stands for Terrorists in CS.", "note": "", "g": "Spawns", "p": 1, "x": 57.78, "y": 91.32, "o": 1, "img": "attacker-spawn", "px": [0.5, 0.5822]}, {"n": "A Lobby", "a": "", "d": "Attackers' staging area in front of A Main.", "note": "", "g": "A", "p": 2, "x": 76.45, "y": 78.31, "o": 1, "img": "a-lobby", "px": [0.5, 0.5658]}, {"n": "A Main", "a": "", "d": "The main path into A site.", "note": "", "g": "A", "p": 3, "x": 80.8, "y": 63.8, "o": 1, "img": "a-main", "px": [0.5, 0.5822]}, {"n": "A Vent", "a": "", "d": "The vent passage between Mid and A.", "note": "", "g": "A", "p": 4, "x": 63.84, "y": 47.28, "o": 1}, {"n": "A Tower", "a": "", "d": "The raised tower next to A site.", "note": "", "g": "A", "p": 5, "x": 74.63, "y": 48.91, "o": 1, "img": "a-tower", "px": [0.5, 0.6096]}, {"n": "A Site", "a": "", "d": "Bomb site A.", "note": "", "g": "A", "p": 6, "x": 84.93, "y": 48.28, "o": 1, "img": "a-site", "px": [0.5, 0.5822]}, {"n": "A Bridge", "a": "", "d": "The narrow bridge at the edge of A – watch out for the drop.", "note": "", "g": "A", "p": 7, "x": 96.2, "y": 46.9, "o": 1, "img": "a-bridge", "px": [0.5, 0.5658]}, {"n": "A Security", "a": "", "d": "The security room behind A site.", "note": "", "g": "A", "p": 8, "x": 89.78, "y": 25.14, "o": 1, "img": "a-security", "px": [0.5, 0.5822]}, {"n": "A Secret", "a": "", "d": "The hidden path from A to the defender side.", "note": "", "g": "A", "p": 9, "x": 82.62, "y": 21.76, "o": 1, "img": "a-secret", "px": [0.5, 0.5658]}, {"n": "A Link", "a": "", "d": "The passage from A toward defender spawn.", "note": "", "g": "A", "p": 10, "x": 72.81, "y": 29.52, "o": 1, "img": "a-link", "px": [0.5, 0.5822]}, {"n": "Mid Bottom", "a": "", "d": "The attackers' end of Mid.", "note": "", "g": "Mid", "p": 11, "x": 46.87, "y": 54.79, "o": 1, "img": "mid-bottom", "px": [0.5, 0.5822]}, {"n": "Mid Catwalk", "a": "", "d": "The narrow catwalk in Mid.", "note": "", "g": "Mid", "p": 12, "x": 54.99, "y": 54.41, "o": 1, "img": "mid-catwalk", "px": [0.5, 0.5822]}, {"n": "Mid Library", "a": "", "d": "The library in the middle of the map.", "note": "", "g": "Mid", "p": 13, "x": 47.47, "y": 45.03, "o": 1, "img": "mid-library", "px": [0.5, 0.5822]}, {"n": "Mid Bend", "a": "", "d": "The bend between Mid and B.", "note": "", "g": "Mid", "p": 14, "x": 36.45, "y": 59.17, "o": 1, "img": "mid-bend", "px": [0.5, 0.5822]}, {"n": "Mid Top", "a": "", "d": "The defenders' end of Mid.", "note": "", "g": "Mid", "p": 15, "x": 56.45, "y": 30.14, "o": 1, "img": "mid-top", "px": [0.5, 0.5822]}, {"n": "B Lobby", "a": "", "d": "Attackers' staging area in front of B Main.", "note": "", "g": "B", "p": 16, "x": 20.69, "y": 83.57, "o": 1, "img": "b-lobby", "px": [0.5, 0.5822]}, {"n": "B Main", "a": "", "d": "The main path into B site.", "note": "", "g": "B", "p": 17, "x": 14.14, "y": 62.67, "o": 1, "img": "b-main", "px": [0.5, 0.5822]}, {"n": "B Nest", "a": "", "d": "A small raised spot by B Main.", "note": "", "g": "B", "p": 18, "x": 9.9, "y": 67.93, "o": 1, "img": "b-nest", "px": [0.5, 0.6096]}, {"n": "B Danger", "a": "", "d": "The dangerous ledge by B site – one wrong step and you fall.", "note": "", "g": "B", "p": 19, "x": 2.87, "y": 50.79, "o": 1, "img": "b-danger", "px": [0.5, 0.5823]}, {"n": "B Site", "a": "", "d": "Bomb site B.", "note": "", "g": "B", "p": 20, "x": 14.38, "y": 40.15, "o": 1, "img": "b-site", "px": [0.5, 0.6096]}, {"n": "B Tower", "a": "", "d": "The raised tower at the back of B site.", "note": "", "g": "B", "p": 21, "x": 18.38, "y": 29.14, "o": 1, "img": "b-tower", "px": [0.5, 0.6096]}, {"n": "B Link", "a": "", "d": "The passage linking B with Mid and the defenders.", "note": "", "g": "B", "p": 22, "x": 34.02, "y": 30.39, "o": 1, "img": "b-link", "px": [0.5, 0.5822]}, {"n": "Defender Spawn", "a": "CT Spawn, CT", "d": "Where defenders start. \"CT\" stands for Counter-Terrorists in CS.", "note": "", "g": "Spawns", "p": 23, "x": 57.78, "y": 5.99, "o": 1, "img": "defender-spawn", "px": [0.5, 0.5822]}]}</script>
 <script src="../assets/map.js"></script>
 </body>
 </html>
